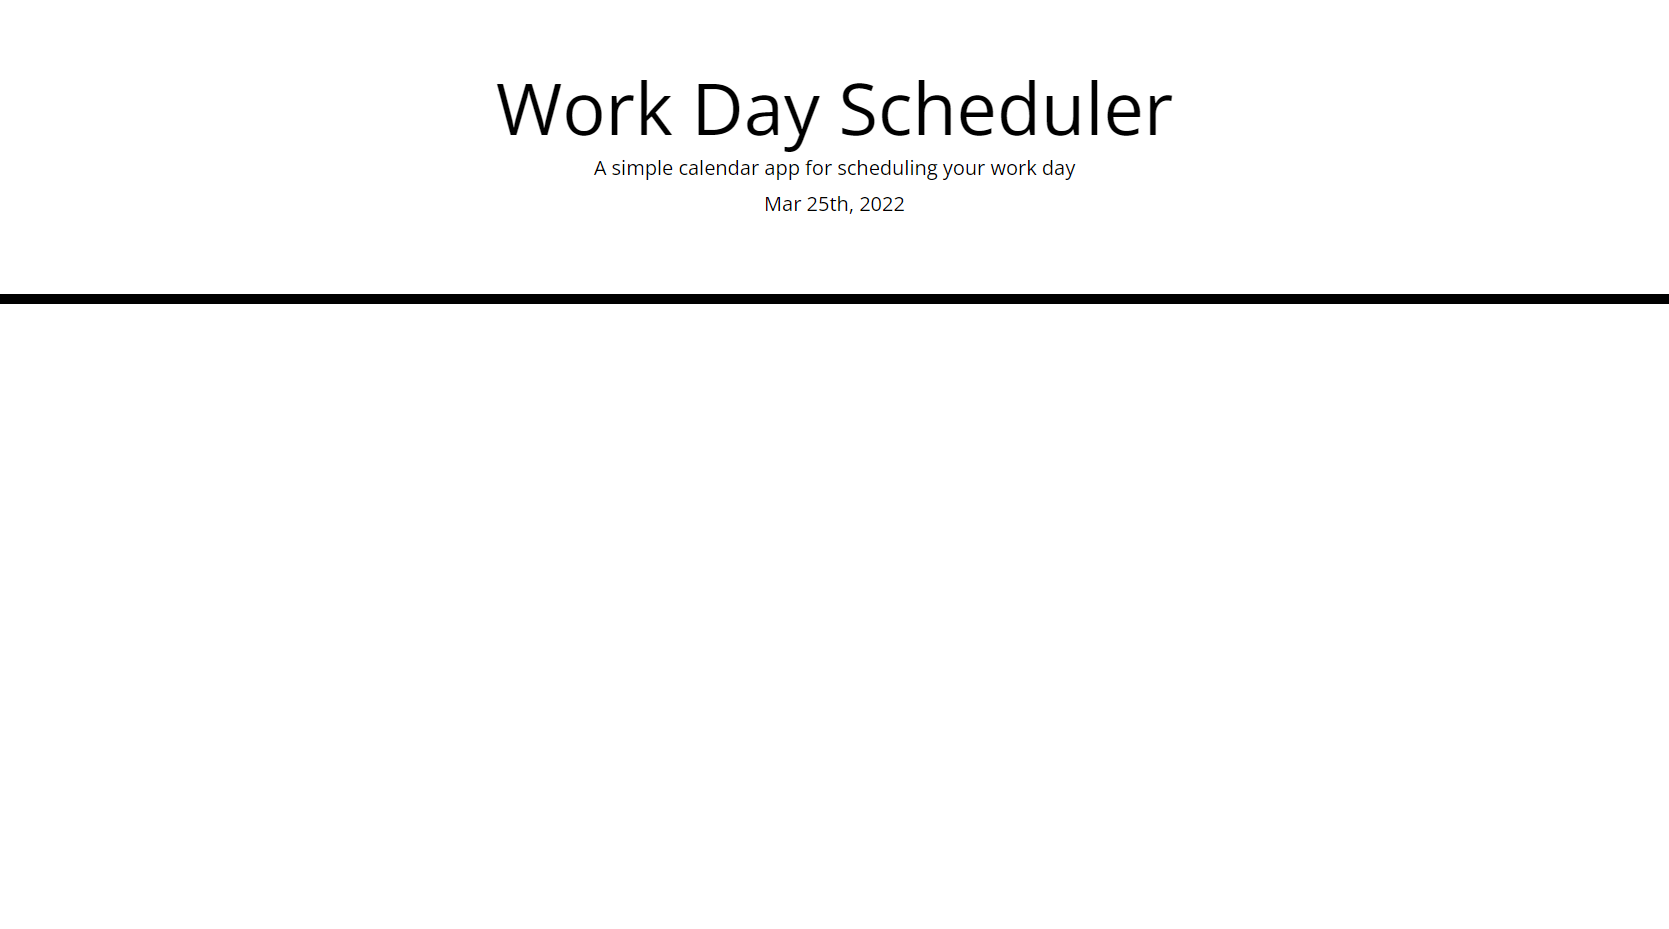
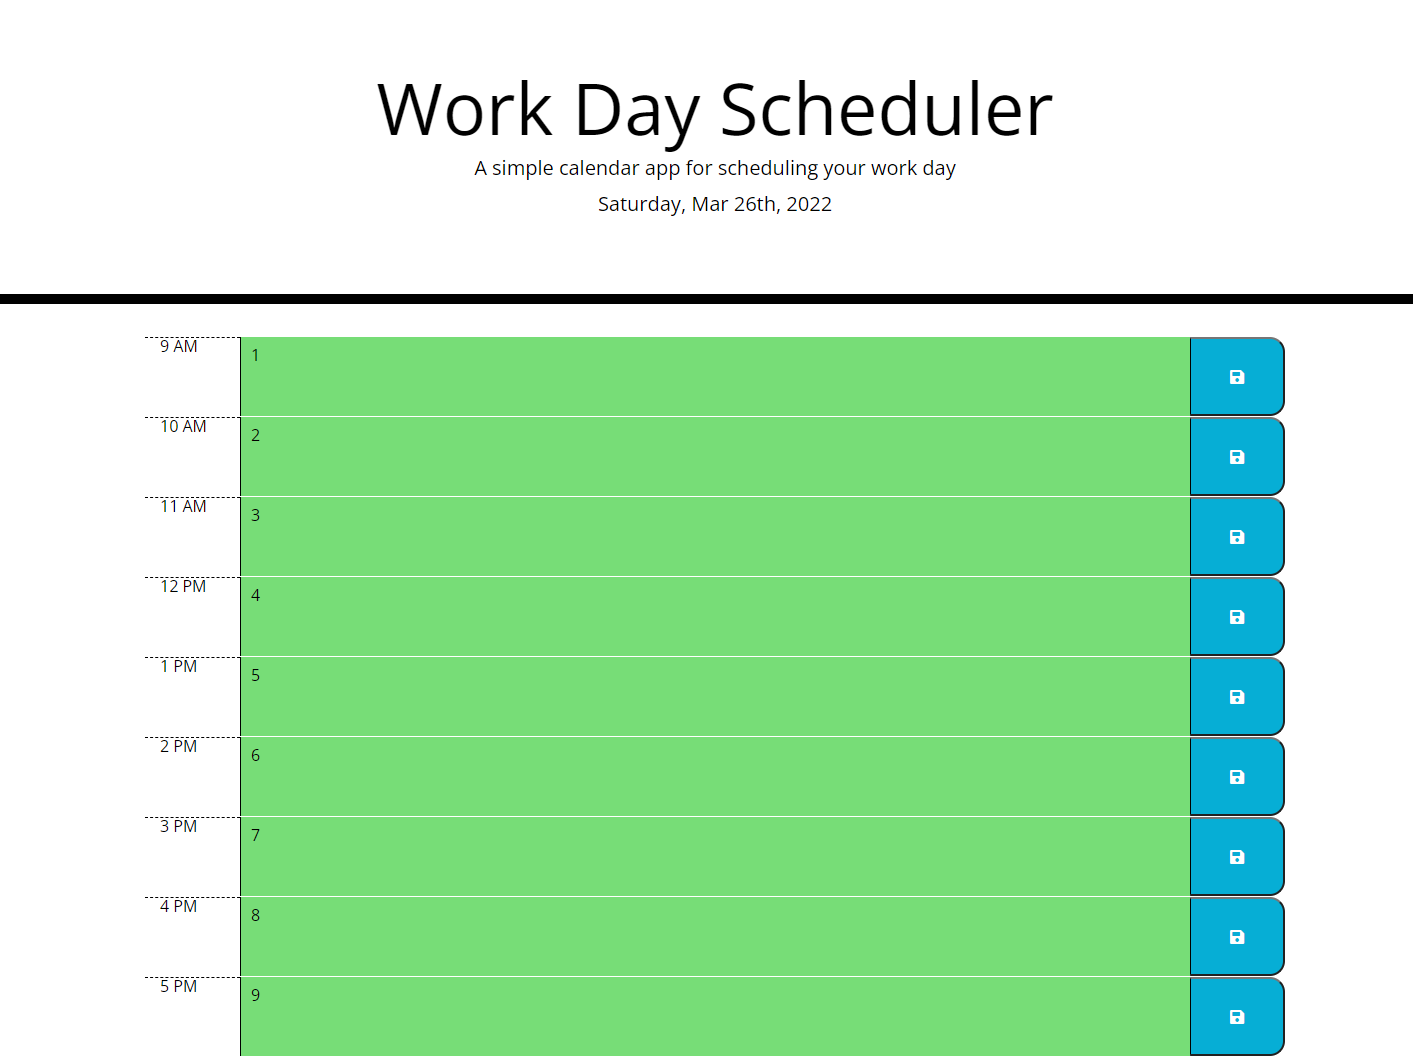
Adding new deployed application screenshot

diff --git a/README_Day_Planner.md b/README_Day_Planner.md
@@ -7,7 +7,7 @@
 Given a ```.gif``` file of a day planner and a beginning HTML and CSS file, the goal is to create a day planner that resembles the one in the ```.gif``` file. It should have the current day displayed at the top of the calendar with timeblocks for standard business hours. The timeblocks should be color-coded to represent past, present, and future. A user should be able to enter events into the timeblocks and save to local storage so they are still there after page refresh. 
 
 - [Git Hub Repository](https://github.com/areitan/Day_Planner)
-- [Day Planner Deployed Application](https://areitan.github.io/Code_Quiz/)
+- [Day Planner Deployed Application](https://areitan.github.io/Day_Planner/)
 
 Example Day Planner
 
@@ -32,7 +32,7 @@ Day Planner
 ### script.js
 
 1. I added a variable for the current date to display on the planner.
-2. I added a variable for the current hour converted to military time so I could use that in if statements to comtrol the colors in the ```.html``` file.
+2. I added a variable for the current hour converted to military time so I could use that in if statements to control the time-block colors in the ```.html``` file.
 3. I added if statements for each hour to control the color.
 4. I added functions to save user input from the text inputs to local storage.
 5. I added event listeners to each time-block button to trigger saving the user input to local storage.
